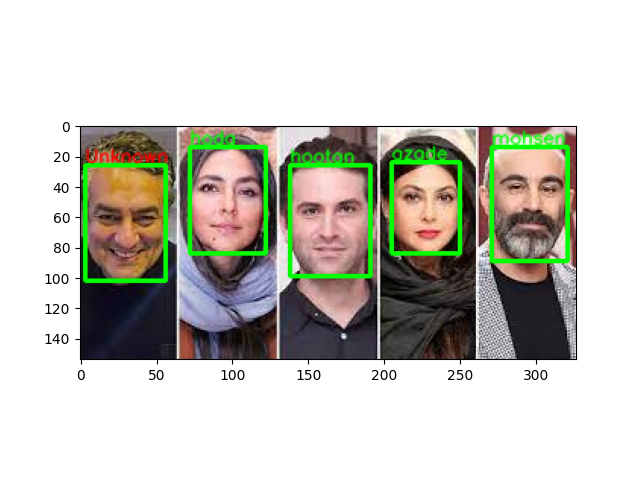
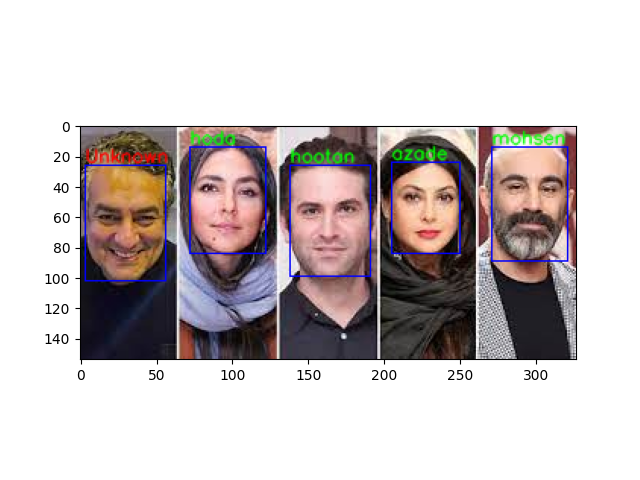
class_create_face_bank

Changed region(s): [[0.125, 0.2812, 0.9062, 0.5938]]

diff --git a/create_face_bank.py b/create_face_bank.py
@@ -3,33 +3,40 @@ import cv2
 import numpy as np
 from insightface.app import FaceAnalysis
 
-app = FaceAnalysis(providers=["CPUExecutionProvider"], name="buffalo_s")
-app.prepare(ctx_id=0, det_size=(640, 640))
 
-face_bank_path = "./face_bank/"
+class CreatFaceBank():
+    def __init__(self):
+        self.model = None
+        self.face_bank_path = None
 
-face_bank = []
+    def creation_model(self):
+        self.model = FaceAnalysis(providers=["CPUExecutionProvider"], name="buffalo_s")
+        self.model.prepare(ctx_id=0, det_size=(640, 640))
 
-for person_name in os.listdir(face_bank_path):
-    file_path = os.path.join(face_bank_path, person_name)
-    if os.path.isdir(file_path):
-        for image_name in os.listdir(file_path):
-            if image_name != ".DS_Store":
-                image_path = os.path.join(file_path, image_name)
-                print(image_path)
-                image = cv2.imread(image_path)
-                image = cv2.cvtColor(image, cv2.COLOR_BGR2RGB)
-                result = app.get(image)
+    def creation_facebank(self):
+        self.face_bank_path = "./face_bank/"
+        face_bank = []
 
-                if len(result)>1:
-                    print("Warning")
-                    continue
+        for person_name in os.listdir(self.face_bank_path):
+            file_path = os.path.join(self.face_bank_path, person_name)
+            if os.path.isdir(file_path):
+                for image_name in os.listdir(file_path):
+                    if image_name != ".DS_Store":
+                        image_path = os.path.join(file_path, image_name)
+                        print(image_path)
+                        image = cv2.imread(image_path)
+                        image = cv2.cvtColor(image, cv2.COLOR_BGR2RGB)
+                        result = self.model.get(image)
 
-                # print(len(result))
+                        if len(result)>1:
+                            print("Warning: There are more than one person in this image!!")
+                            continue
 
-                embedding = result[0]["embedding"]
-                my_dict = {"name": person_name, "embedding": embedding}
-                face_bank.append(my_dict)
+                        # print(len(result))
+
+                        embedding = result[0]["embedding"]
+                        my_dict = {"name": person_name, "embedding": embedding}
+                        face_bank.append(my_dict)
 
 
-np.save("face_bank.npy", face_bank)
+        np.save("face_bank.npy", face_bank)

diff --git a/face_identification.py b/face_identification.py
@@ -4,43 +4,14 @@ import numpy as np
 import matplotlib.pyplot as plt
 import argparse
 from insightface.app import FaceAnalysis
+from create_face_bank import CreatFaceBank
+from faceidentification import FaceIdentification
 
 parser = argparse.ArgumentParser()
 parser.add_argument("--image", type=str, help="Path of the inferential image")
+parser.add_argument('--update', type=str, help='Directory involved new images')
 
-arg = parser.parse_args()
+args = parser.parse_args()
 
-img_path = arg.image
+img_path = args.image
 
-face_bank = np.load("face_bank.npy", allow_pickle=True )
-
-app = FaceAnalysis(providers=["CPUExecutionProvider"], name="buffalo_s")
-app.prepare(ctx_id=0, det_size=(640, 640))
-
-#input = cv2.imread(img_path)
-input = cv2.imread("Inputs/a2.jpg")
-input = cv2.cvtColor(input, cv2.COLOR_BGR2RGB)
-
-results = app.get(input)
-print(len(results))
-
-threshold = 25
-
-for result in results:
-    cv2.rectangle(input, (int(result.bbox[0]), int(result.bbox[1])), (int(result.bbox[2]), int(result.bbox[3])), (0, 255, 0), 2)
-
-    for person in face_bank:
-        face_bank_person_embedding = person["embedding"]
-        new_person_embedding = result["embedding"]
-
-        dist = np.sqrt(np.sum((face_bank_person_embedding - new_person_embedding)**2))
-        
-        if dist<threshold:
-            cv2.putText(input, person["name"], (int(result.bbox[0]), int(result.bbox[1] - 2)), cv2.FONT_HERSHEY_SIMPLEX, 0.4, (0, 255, 0), 1, cv2.LINE_AA)
-            break
-
-    else:
-        cv2.putText(input, "Unknown", (int(result.bbox[0]), int(result.bbox[1] - 2)), cv2.FONT_HERSHEY_SIMPLEX, 0.4, (255, 0, 0), 1, cv2.LINE_AA)
-
-plt.imshow(input)
-plt.show()

diff --git a/faceidentification.py b/faceidentification.py
@@ -1,0 +1,49 @@
+import os
+import cv2
+import numpy as np
+import matplotlib.pyplot as plt
+from insightface.app import FaceAnalysis
+
+
+class FaceIdentification():
+    def __init__(self):
+        self.model = None
+        self.input = None
+        self.results = None
+        self.face_bank = None
+
+    def load_model(self):
+        self.model = FaceAnalysis(providers=["CPUExecutionProvider"], name="buffalo_s")
+        self.model.prepare(ctx_id=0, det_size=(640, 640))
+
+    def load_image(self, args):
+        self.input = cv2.imread(args.image)
+        self.input = cv2.cvtColor(self.input, cv2.COLOR_BGR2RGB)
+
+
+        face_bank = np.load("face_bank.npy", allow_pickle=True )
+
+
+results = app.get(input)
+print(len(results))
+
+threshold = 25
+
+for result in results:
+    cv2.rectangle(input, (int(result.bbox[0]), int(result.bbox[1])), (int(result.bbox[2]), int(result.bbox[3])), (0, 0, 255), 1)
+
+    for person in face_bank:
+        face_bank_person_embedding = person["embedding"]
+        new_person_embedding = result["embedding"]
+
+        dist = np.sqrt(np.sum((face_bank_person_embedding - new_person_embedding)**2))
+        
+        if dist<threshold:
+            cv2.putText(input, person["name"], (int(result.bbox[0]), int(result.bbox[1] - 2)), cv2.FONT_HERSHEY_SIMPLEX, 0.4, (0, 255, 0), 1, cv2.LINE_AA)
+            break
+
+    else:
+        cv2.putText(input, "Unknown", (int(result.bbox[0]), int(result.bbox[1] - 2)), cv2.FONT_HERSHEY_SIMPLEX, 0.4, (255, 0, 0), 1, cv2.LINE_AA)
+
+plt.imshow(input)
+plt.show()
